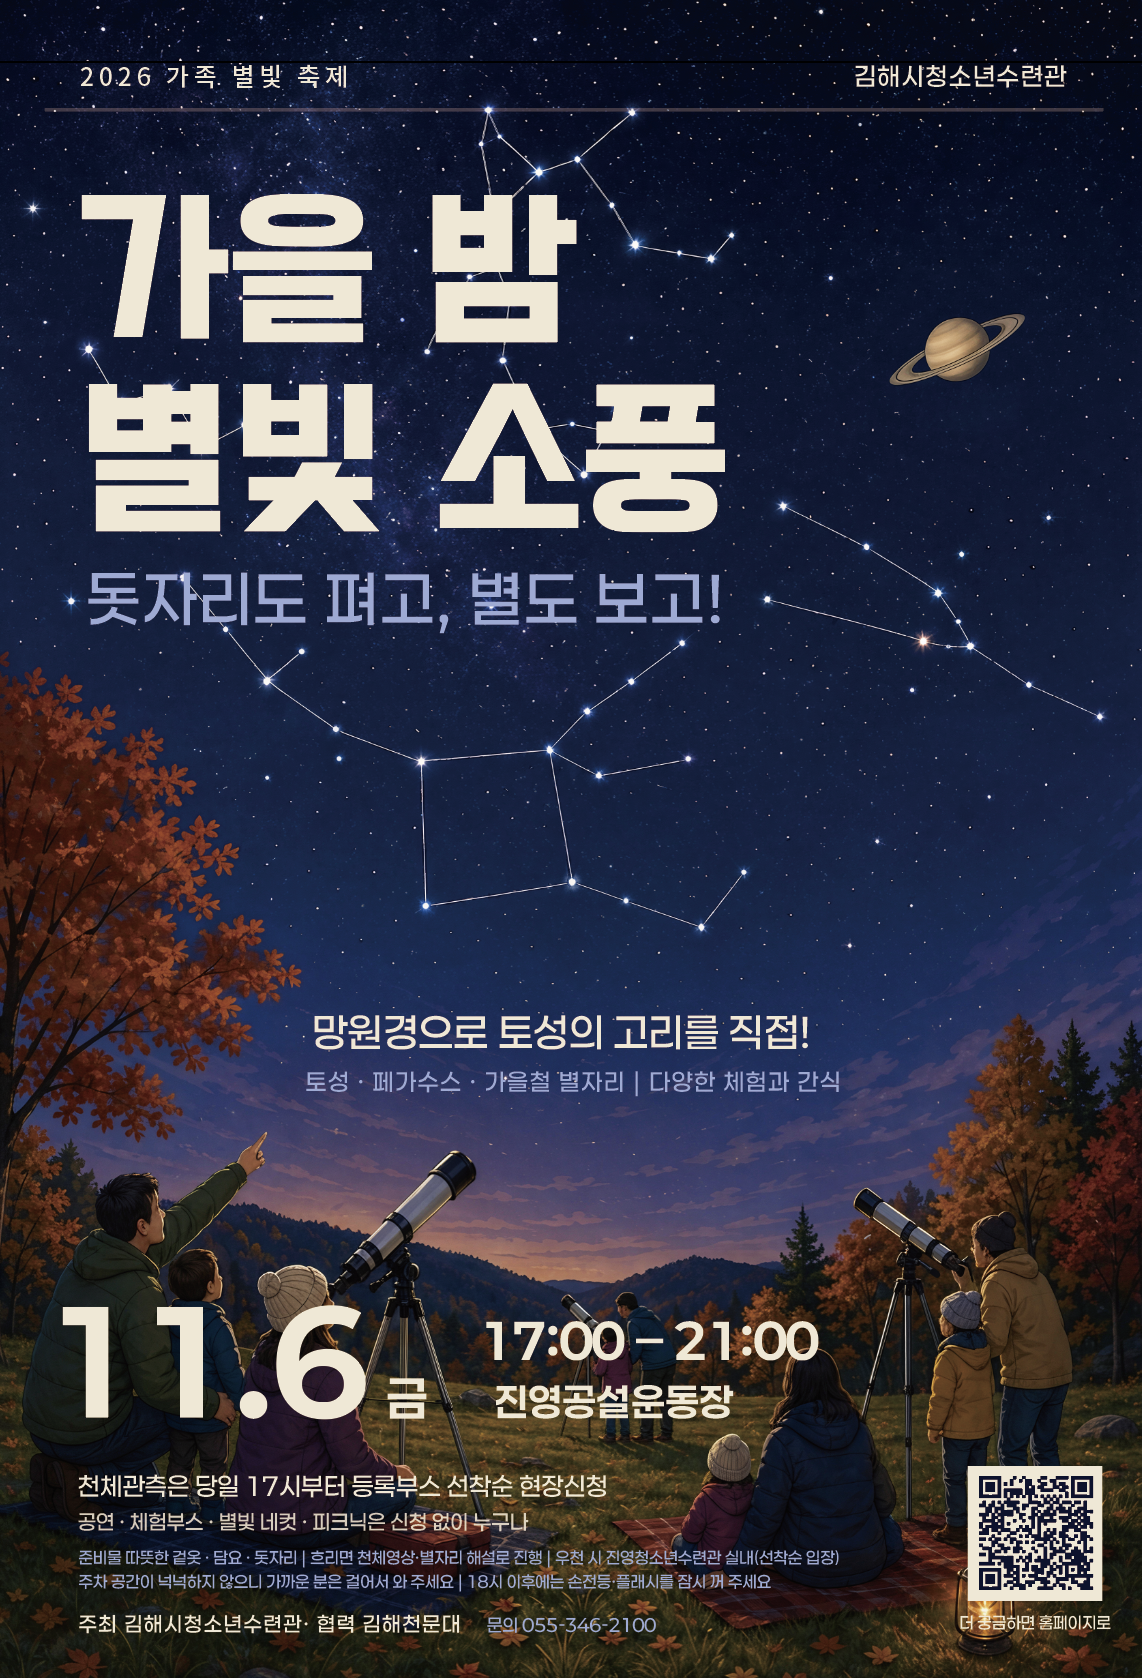
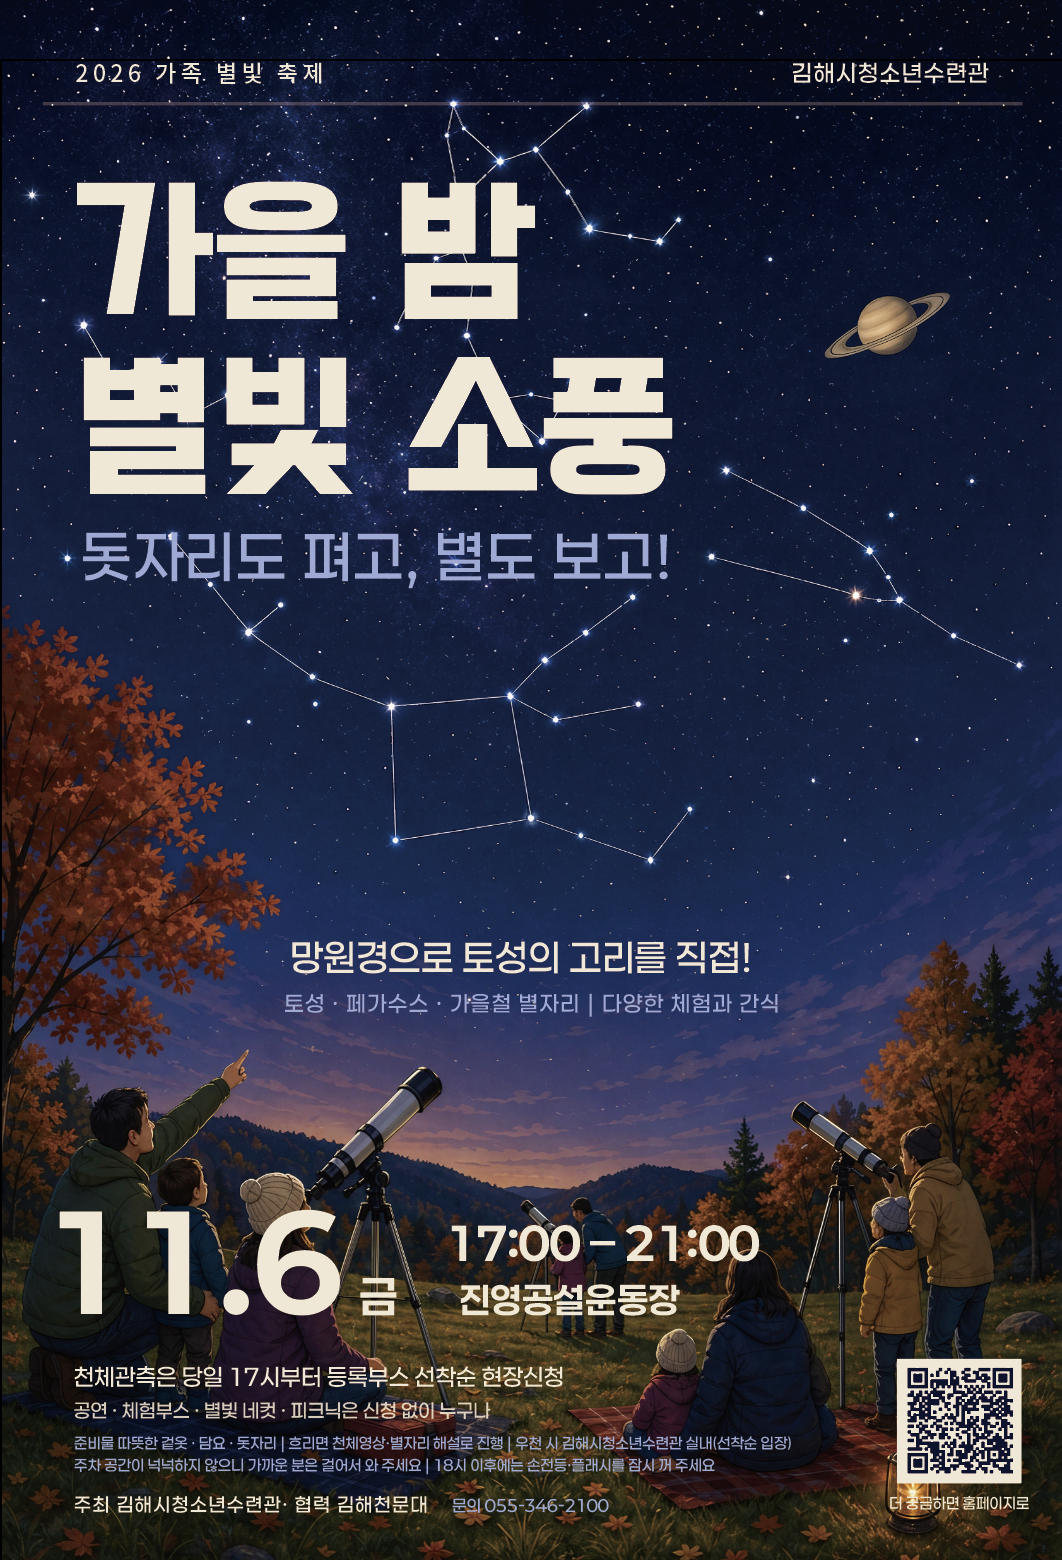
수정 포스터 반영, 별똥별 뽑기 경품을 간식으로 안내
Claude-Session: https://claude.ai/code/session_01EjMwwnspsSHAyNDpsUP2kn

diff --git a/index.html b/index.html
@@ -228,7 +228,7 @@ footer{padding-block:40px 56px;border-top:1px solid var(--line);color:var(--mute
         <div class="eyebrow dimmable">2026 가족 별빛 축제</div>
         <h1>가을 밤<br>별빛 소풍</h1>
         <p class="name">돗자리도 펴고, 별도 보고!</p>
-        <p class="lede dimmable">금요일 저녁, 걸어서 오는 가족 소풍. 운동장의 불을 끄면 하늘이 열리고, 망원경으로 토성의 고리를 직접 봅니다. 다양한 체험도 함께해요.</p>
+        <p class="lede dimmable">금요일 저녁, 걸어서 오는 가족 소풍. 운동장의 불을 끄면 하늘이 열리고, 망원경으로 토성의 고리를 직접 봅니다. 다양한 체험과 간식도 함께해요.</p>
         <div class="when dimmable">
           <span>2026. 11. 6.(금) <small>17:00 – 21:00</small></span>
           <span>진영공설운동장</span>
@@ -387,7 +387,7 @@ footer{padding-block:40px 56px;border-top:1px solid var(--line);color:var(--mute
         <div class="booth"><span class="no">06</span><h4>별빛 소원 우체통</h4><p>가족 엽서를 쓰면 1년 뒤 2027년 11월에 배달됩니다.</p></div>
         <div class="booth"><span class="no">07</span><h4>별빛 다방</h4><p>코코아·유자차 등 따뜻한 음료. 추울 때 쉬어 가는 곳.</p></div>
         <div class="booth"><span class="no">08</span><h4>별빛 네컷</h4><p>행사 전용 프레임으로 찍는 가족 네컷 사진. 운영 시간 내 무제한.</p></div>
-        <div class="booth"><span class="no">09</span><h4>별똥별 뽑기</h4><p>미션으로 받은 코인으로 하는 인형뽑기. 리워드 교환처.</p></div>
+        <div class="booth"><span class="no">09</span><h4>별똥별 뽑기</h4><p>미션으로 받은 코인으로 인형뽑기 기계에서 간식을 뽑아요. 리워드 교환처.</p><span class="rw">간식</span></div>
       </div>
 
       <div class="two">
@@ -395,7 +395,7 @@ footer{padding-block:40px 56px;border-top:1px solid var(--line);color:var(--mute
           <h3>리워드 미션</h3>
           <p><b>① 별자리 스탬프 미션</b><br><span class="note">가족 별자리 카드 받기 → 체험부스 4곳 이상 스탬프 → 만족도 조사 작성 → 별똥별 코인 2개 (가족당 1회)</span></p>
           <p><b>② 태양계 몸무게 챌린지</b><br><span class="note">목성에서의 가족 몸무게 합 예측 → 저울로 확인 → 오차 10% 이내면 코인 1개. 참여 가족 모두 야광 별 스티커</span></p>
-          <p class="note" style="margin:0">코인은 별똥별 뽑기(9번 부스)에서 사용합니다. 경품이 모두 나가면 교환을 마감하고 스티커로 대신합니다. 리워드 교환 마감 20:40.</p>
+          <p class="note" style="margin:0">코인은 별똥별 뽑기(9번 부스) 인형뽑기 기계에서 간식을 뽑는 데 씁니다. 간식이 모두 나가면 교환을 마감하고 스티커로 대신하며, 못 뽑은 아이에게는 야광 별 스티커를 드립니다. 리워드 교환 마감 20:40.</p>
         </div>
         <div class="box">
           <h3>공연 · 피크닉</h3>
@@ -476,7 +476,7 @@ footer{padding-block:40px 56px;border-top:1px solid var(--line);color:var(--mute
           <h3>자주 묻는 질문</h3>
           <details open><summary>천체관측은 미리 신청해야 하나요?</summary><p>사전신청은 없습니다. 행사 당일 17:00 개장과 함께 등록부스에서 선착순으로 회차를 배정하고 색깔 관측권을 드립니다. 1가족 1회차만 신청할 수 있어요.</p></details>
           <details><summary>관측권을 못 받으면 망원경을 볼 수 없나요?</summary><p>관측존 옆 자유관측 망원경은 신청 없이 줄 서서 볼 수 있습니다(18:10~19:50). 회차 시작 시각까지 오지 않은 관측권은 현장에서 기다리는 가족에게 순서대로 넘겨 드립니다.</p></details>
-          <details><summary>체험부스도 신청해야 하나요?</summary><p>아니요. 체험부스, 공연, 피크닉존, 별빛 네컷은 신청 없이 자유롭게 이용합니다. 스탬프 미션을 완료하면 별똥별 뽑기 코인을 드려요.</p></details>
+          <details><summary>체험부스도 신청해야 하나요?</summary><p>아니요. 체험부스, 공연, 피크닉존, 별빛 네컷은 신청 없이 자유롭게 이용합니다. 스탬프 미션을 완료하면 간식을 뽑을 수 있는 별똥별 뽑기 코인을 드려요.</p></details>
           <details><summary>비가 오거나 흐리면 어떻게 되나요?</summary><p>흐리면 밝은 천체 위주로 관측하고, 어려운 회차는 큰 화면 천체영상과 별자리 해설로 진행합니다. 비나 강풍이면 김해시청소년수련관 실내로 옮기거나 일정을 미룹니다. 기상 판단은 11. 4.(수) 18:00 1차, 당일 12:00 최종으로 하며 결과를 공지합니다.</p></details>
           <details><summary>무엇을 챙겨 가면 좋을까요?</summary><p>11월 저녁 야외라 꽤 춥습니다. 따뜻한 겉옷, 담요, 돗자리나 은박매트를 챙겨 주세요. 현장에서 핫팩을 나눠 드리고 무릎담요를 수량 한정으로 빌려 드립니다.</p></details>
           <details><summary>주차할 곳이 있나요?</summary><p>운동장 주차장과 인근 주차 공간을 이용할 수 있지만 넉넉하지 않습니다. 가까운 분은 걸어서 와 주세요. 21:00 종료 후 10분간은 걷는 분이 먼저 나가고 차량은 순서대로 나갑니다.</p></details>
